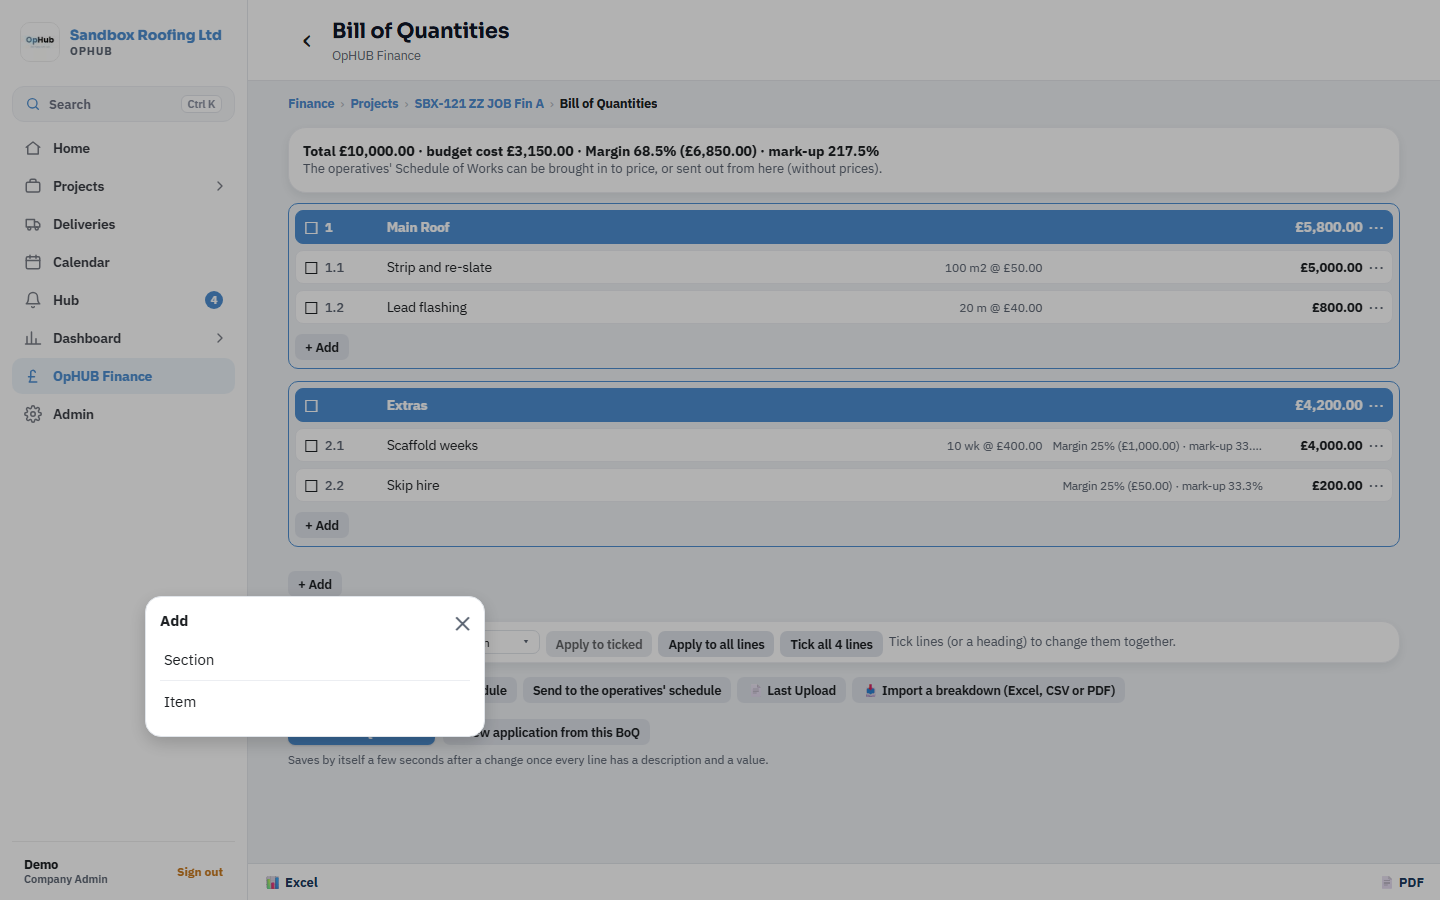
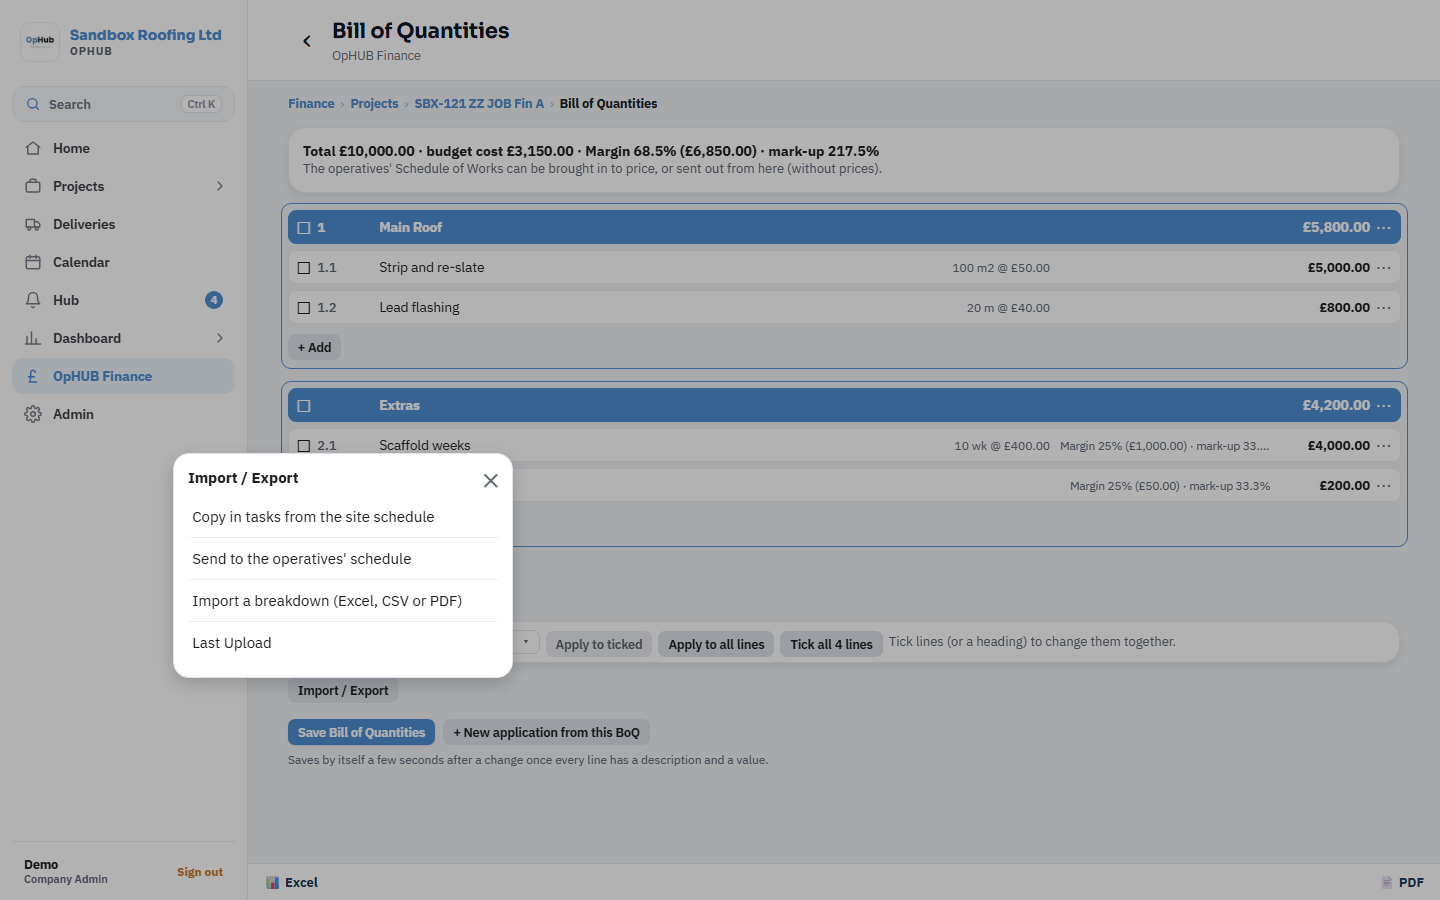
Bill of Quantities: one Import / Export button with the options under it; page edges line up.
Claude-Session: https://claude.ai/code/session_012KhfNvBEbifMJmPdX7yZfp

diff --git a/app-native/src/app/(app)/fin/job/[id]/boq.tsx b/app-native/src/app/(app)/fin/job/[id]/boq.tsx
@@ -162,6 +162,66 @@ function Editor({ id, initial, me }: { id: string; initial: Row[]; me: Profile }
     if (!ok) toast('Could not make the file — try again.');
   };
 
+  const bqCopy = async () => {
+          const [secs, tasks] = await Promise.all([
+            fdb.from('schedule_sections').select('id,name,contract_item_id').eq('site_id', id).order('position', { ascending: true, nullsFirst: false }).order('created_at'),
+            fdb.from('schedule_tasks').select('id,name,section_id,contract_item_id').eq('site_id', id).order('position', { ascending: true, nullsFirst: false }).order('created_at'),
+          ]);
+          const have = new Set(rows.map((r) => r._task_id).filter(Boolean));
+          const free = ((tasks.data as Row[] | null) ?? []).filter((t) => !t.contract_item_id && !have.has(t.id));
+          if (!free.length) { toast('Everything on the site schedule is already in here.'); return; }
+          const addRows: Row[] = free.filter((t) => !t.section_id).map((t) => ({ ...blank('item'), description: t.name, _task_id: t.id }));
+          ((secs.data as Row[] | null) ?? []).forEach((s) => {
+            const ts = free.filter((t) => t.section_id === s.id); if (!ts.length) return;
+            addRows.push({ ...blank('section'), description: s.name, _sec_id: s.contract_item_id ? null : s.id }, ...ts.map((t) => ({ ...blank('item'), description: t.name, _task_id: t.id })));
+          });
+          setRows([...rows, ...addRows]);
+          toast(`${free.length} task${free.length === 1 ? '' : 's'} copied in — add a price to each`);
+        };
+  const bqSend = async () => {
+          if (rows.some((r) => !r.id)) { toast('Save the schedule first.'); return; }
+          const [secs, tasks] = await Promise.all([fdb.from('schedule_sections').select('id,contract_item_id,name,position').eq('site_id', id), fdb.from('schedule_tasks').select('id,contract_item_id,name,section_id,position').eq('site_id', id)]);
+          const sl = (secs.data as Row[] | null) ?? [], tl = (tasks.data as Row[] | null) ?? [];
+          const secBy: Record<string, Row> = {}, taskBy: Record<string, Row> = {};
+          sl.forEach((s) => { if (s.contract_item_id) secBy[s.contract_item_id] = s; }); tl.forEach((t) => { if (t.contract_item_id) taskBy[t.contract_item_id] = t; });
+          let secPos = sl.reduce((m, s) => Math.max(m, Number(s.position || 0)), 0) + 1, taskPos = tl.reduce((m, t) => Math.max(m, Number(t.position || 0)), 0) + 1;
+          let cur: string | null = null, head = '', added = 0, updated = 0;
+          const nm = (i: Row) => `${i.ref ? `${i.ref} ` : ''}${String(i.description || '').trim()}`;
+          for (const i of rows) {
+            if (i.kind === 'section' || i.kind === 'subsection') {
+              const name = i.kind === 'section' ? nm(i) : `${head ? `${head} — ` : ''}${nm(i)}`; if (i.kind === 'section') head = nm(i);
+              const ex = secBy[i.id];
+              if (ex) { if (ex.name !== name) await fdb.from('schedule_sections').update({ name } as never).eq('id', ex.id); cur = ex.id; }
+              else { const r = await fdb.from('schedule_sections').insert({ site_id: id, name, position: secPos++, created_by: me.id, contract_item_id: i.id } as never).select('id').single(); cur = r.data ? (r.data as Row).id : null; }
+              continue;
+            }
+            const name = nm(i) || 'Item', ex = taskBy[i.id];
+            if (ex) { const p: Row = {}; if (ex.name !== name) p.name = name; if ((ex.section_id || null) !== (cur || null)) p.section_id = cur; if (Object.keys(p).length) { await fdb.from('schedule_tasks').update(p as never).eq('id', ex.id); updated++; } }
+            else if (!(await fdb.from('schedule_tasks').insert({ site_id: id, name, status: 'todo', position: taskPos++, contract_item_id: i.id, ...(cur ? { section_id: cur } : {}) } as never)).error) added++;
+          }
+          toast(added || updated ? `Operatives' schedule: ${added} task${added === 1 ? '' : 's'} added${updated ? `, ${updated} updated` : ''}` : 'The operatives’ schedule is already up to date');
+        };
+  const bqImport = async () => {
+          const r = await DocumentPicker.getDocumentAsync({ type: '*/*', copyToCacheDirectory: true }); if (r.canceled || !r.assets[0]) return;
+          const a = r.assets[0];
+          if (/\.xls$/i.test(a.name || '')) { toast('Save it as .xlsx or .csv first — old .xls files can’t be read.'); return; }
+          setImporting(true);
+          try {
+            const bytes = new Uint8Array(await (await fetch(a.uri)).arrayBuffer());
+            const kept = await supabase.storage.from('finance-docs').upload(`${me.org_id}/${id}/contract/${Date.now()}-${(a.name || 'boq').replace(/[^a-z0-9.-]+/gi, '_').slice(-80)}`, bytes, { contentType: a.mimeType || 'application/octet-stream' });
+            if (!kept.error) { await fdb.from('job_finance').update({ contract_file_path: kept.data.path, contract_file_name: a.name || 'BoQ' } as never).eq('site_id', id); setLastUp({ path: kept.data.path, name: a.name || 'BoQ' }); }
+            if (/\.pdf$/i.test(a.name || '') || a.mimeType === 'application/pdf') {
+              const pages = await pdfPageTexts(bytes, 40);
+              setImp({ sheets: [], sheet: '', lines: importPdfLines((pages ?? []).join('\n').split('\n')) });
+            } else {
+              const sheets = /\.csv$/i.test(a.name || '') ? [{ name: 'CSV', rows: csvRows(new TextDecoder().decode(bytes)) }] : await readXlsx(bytes);
+              const best = bestSheet(sheets); if (!best) { toast('Nothing found in that file.'); return; }
+              const g = guessColumns(best.rows);
+              setImp({ sheets, sheet: best.name, lines: importRows(best.rows, g.header, g.cols) });
+            }
+          } catch { toast('Could not read that file.'); } finally { setImporting(false); }
+        };
+  const bqLast = async () => { const u = await openDocLink('finance-docs', lastUp.path); if (u) viewDoc(u, lastUp.name); else toast('Could not open the file.'); };
   return (
     <View style={{ flex: 1 }}>
     <ScrollView style={{ flex: 1 }} contentContainerStyle={page(1100)} keyboardShouldPersistTaps="handled">
@@ -175,7 +235,7 @@ function Editor({ id, initial, me }: { id: string; initial: Row[]; me: Profile }
 
       {/* Each section sits in its own border (Andy, 1 Nov 2026); lines before any section don't. */}
       {rows.reduce<number[][]>((gs, r, i) => { if (r.kind === 'section' || !gs.length) gs.push([i]); else gs[gs.length - 1].push(i); return gs; }, []).map((g) => (
-      <View key={rows[g[0]]._k} style={rows[g[0]].kind === 'section' ? { borderWidth: 1.5, borderColor: t.brand1, borderRadius: 10, padding: 6, paddingBottom: 0, marginBottom: 12 } : undefined}>
+      <View key={rows[g[0]]._k} style={rows[g[0]].kind === 'section' ? { borderWidth: 1.5, borderColor: t.brand1, borderRadius: 10, padding: 6, paddingBottom: 0, marginBottom: 12, marginHorizontal: -7.5 } : undefined}>
       {g.map((i) => {
         const r = rows[i];
         const head = r.kind === 'section' || r.kind === 'subsection';
@@ -272,65 +332,9 @@ function Editor({ id, initial, me }: { id: string; initial: Row[]; me: Profile }
       </Card>
 
       <View style={{ flexDirection: 'row', flexWrap: 'wrap', gap: 6, marginBottom: 12 }}>
-        <Button small kind="ghost" title="Copy in tasks from the site schedule" onPress={async () => {
-          const [secs, tasks] = await Promise.all([
-            fdb.from('schedule_sections').select('id,name,contract_item_id').eq('site_id', id).order('position', { ascending: true, nullsFirst: false }).order('created_at'),
-            fdb.from('schedule_tasks').select('id,name,section_id,contract_item_id').eq('site_id', id).order('position', { ascending: true, nullsFirst: false }).order('created_at'),
-          ]);
-          const have = new Set(rows.map((r) => r._task_id).filter(Boolean));
-          const free = ((tasks.data as Row[] | null) ?? []).filter((t) => !t.contract_item_id && !have.has(t.id));
-          if (!free.length) { toast('Everything on the site schedule is already in here.'); return; }
-          const addRows: Row[] = free.filter((t) => !t.section_id).map((t) => ({ ...blank('item'), description: t.name, _task_id: t.id }));
-          ((secs.data as Row[] | null) ?? []).forEach((s) => {
-            const ts = free.filter((t) => t.section_id === s.id); if (!ts.length) return;
-            addRows.push({ ...blank('section'), description: s.name, _sec_id: s.contract_item_id ? null : s.id }, ...ts.map((t) => ({ ...blank('item'), description: t.name, _task_id: t.id })));
-          });
-          setRows([...rows, ...addRows]);
-          toast(`${free.length} task${free.length === 1 ? '' : 's'} copied in — add a price to each`);
-        }} />
-        <Button small kind="ghost" title="Send to the operatives' schedule" onPress={async () => {
-          if (rows.some((r) => !r.id)) { toast('Save the schedule first.'); return; }
-          const [secs, tasks] = await Promise.all([fdb.from('schedule_sections').select('id,contract_item_id,name,position').eq('site_id', id), fdb.from('schedule_tasks').select('id,contract_item_id,name,section_id,position').eq('site_id', id)]);
-          const sl = (secs.data as Row[] | null) ?? [], tl = (tasks.data as Row[] | null) ?? [];
-          const secBy: Record<string, Row> = {}, taskBy: Record<string, Row> = {};
-          sl.forEach((s) => { if (s.contract_item_id) secBy[s.contract_item_id] = s; }); tl.forEach((t) => { if (t.contract_item_id) taskBy[t.contract_item_id] = t; });
-          let secPos = sl.reduce((m, s) => Math.max(m, Number(s.position || 0)), 0) + 1, taskPos = tl.reduce((m, t) => Math.max(m, Number(t.position || 0)), 0) + 1;
-          let cur: string | null = null, head = '', added = 0, updated = 0;
-          const nm = (i: Row) => `${i.ref ? `${i.ref} ` : ''}${String(i.description || '').trim()}`;
-          for (const i of rows) {
-            if (i.kind === 'section' || i.kind === 'subsection') {
-              const name = i.kind === 'section' ? nm(i) : `${head ? `${head} — ` : ''}${nm(i)}`; if (i.kind === 'section') head = nm(i);
-              const ex = secBy[i.id];
-              if (ex) { if (ex.name !== name) await fdb.from('schedule_sections').update({ name } as never).eq('id', ex.id); cur = ex.id; }
-              else { const r = await fdb.from('schedule_sections').insert({ site_id: id, name, position: secPos++, created_by: me.id, contract_item_id: i.id } as never).select('id').single(); cur = r.data ? (r.data as Row).id : null; }
-              continue;
-            }
-            const name = nm(i) || 'Item', ex = taskBy[i.id];
-            if (ex) { const p: Row = {}; if (ex.name !== name) p.name = name; if ((ex.section_id || null) !== (cur || null)) p.section_id = cur; if (Object.keys(p).length) { await fdb.from('schedule_tasks').update(p as never).eq('id', ex.id); updated++; } }
-            else if (!(await fdb.from('schedule_tasks').insert({ site_id: id, name, status: 'todo', position: taskPos++, contract_item_id: i.id, ...(cur ? { section_id: cur } : {}) } as never)).error) added++;
-          }
-          toast(added || updated ? `Operatives' schedule: ${added} task${added === 1 ? '' : 's'} added${updated ? `, ${updated} updated` : ''}` : 'The operatives’ schedule is already up to date');
-        }} />
-        {!!lastUp?.path && <Button small kind="ghost" title="📄 Last Upload" onPress={async () => { const u = await openDocLink('finance-docs', lastUp.path); if (u) viewDoc(u, lastUp.name); else toast('Could not open the file.'); }} />}
-        <Button small kind="ghost" busy={importing} title="📥 Import a breakdown (Excel, CSV or PDF)" onPress={async () => {
-          const r = await DocumentPicker.getDocumentAsync({ type: '*/*', copyToCacheDirectory: true }); if (r.canceled || !r.assets[0]) return;
-          const a = r.assets[0];
-          if (/\.xls$/i.test(a.name || '')) { toast('Save it as .xlsx or .csv first — old .xls files can’t be read.'); return; }
-          setImporting(true);
-          try {
-            const bytes = new Uint8Array(await (await fetch(a.uri)).arrayBuffer());
-            const kept = await supabase.storage.from('finance-docs').upload(`${me.org_id}/${id}/contract/${Date.now()}-${(a.name || 'boq').replace(/[^a-z0-9.-]+/gi, '_').slice(-80)}`, bytes, { contentType: a.mimeType || 'application/octet-stream' });
-            if (!kept.error) { await fdb.from('job_finance').update({ contract_file_path: kept.data.path, contract_file_name: a.name || 'BoQ' } as never).eq('site_id', id); setLastUp({ path: kept.data.path, name: a.name || 'BoQ' }); }
-            if (/\.pdf$/i.test(a.name || '') || a.mimeType === 'application/pdf') {
-              const pages = await pdfPageTexts(bytes, 40);
-              setImp({ sheets: [], sheet: '', lines: importPdfLines((pages ?? []).join('\n').split('\n')) });
-            } else {
-              const sheets = /\.csv$/i.test(a.name || '') ? [{ name: 'CSV', rows: csvRows(new TextDecoder().decode(bytes)) }] : await readXlsx(bytes);
-              const best = bestSheet(sheets); if (!best) { toast('Nothing found in that file.'); return; }
-              const g = guessColumns(best.rows);
-              setImp({ sheets, sheet: best.name, lines: importRows(best.rows, g.header, g.cols) });
-            }
-          } catch { toast('Could not read that file.'); } finally { setImporting(false); }
+        <Button small kind="ghost" busy={importing} title="Import / Export" onPress={async () => {
+          const k = await chooseAction('Import / Export', [{ key: 'copy', label: 'Copy in tasks from the site schedule' }, { key: 'send', label: "Send to the operatives' schedule" }, { key: 'imp', label: 'Import a breakdown (Excel, CSV or PDF)' }, ...(lastUp?.path ? [{ key: 'last', label: 'Last Upload' }] : [])]);
+          if (k === 'copy') await bqCopy(); else if (k === 'send') await bqSend(); else if (k === 'imp') await bqImport(); else if (k === 'last') await bqLast();
         }} />
       </View>
       <View style={{ flexDirection: 'row', gap: 8, flexWrap: 'wrap', alignItems: 'center' }}>

diff --git a/tools/test-harness/jobtest-parts/bq3.js b/tools/test-harness/jobtest-parts/bq3.js
@@ -1,13 +1,15 @@
-// The bottom + Add offers Section and Item. Nothing saved: closed without choosing.
+// Bill of Quantities: Import / Export menu and alignment. Menu closed without choosing.
 module.exports = async ({as, step}) => {
   const a = await as('admin');
   const [J] = await a.get('sites?select=id&name=like.ZZ%20JOB%20Fin*&limit=1');
   await a.page.setViewportSize({width: 1440, height: 900});
-  await step('Bottom + Add', async () => {
+  await step('Left edges line up; Import / Export offers the options', async () => {
     await a.go(`/fin/job/${J.id}/boq`, 7000); await a.page.getByText(/^not now$/i).first().click({timeout: 800}).catch(() => {}); await a.page.waitForTimeout(1500); await a.shot('page');
-    const old = await a.page.getByText(/^\+ (Item|Section)$/).locator('visible=true').count();
-    await a.page.getByText(/^\+ Add$/).locator('visible=true').last().click({timeout: 6000}); await a.page.waitForTimeout(500); await a.shot('menu');
-    const sec = await a.page.getByText(/^Section$/).locator('visible=true').count(), item = await a.page.getByText(/^Item$/).locator('visible=true').count();
-    return {ok: old === 0 && sec > 0 && item > 0, note: `old ${old}, section ${sec}, item ${item}`};
+    const x = async (re) => Math.round((await a.page.getByText(re).locator('visible=true').last().locator('..').boundingBox()).x);
+    const inner = await x(/^\+ Add$/), save = await x(/^Save Bill of Quantities$/), io = await x(/^Import \/ Export$/);
+    const first = await a.page.getByText(/^\+ Add$/).locator('visible=true').first().locator('..').boundingBox();
+    await a.page.getByText(/^Import \/ Export$/).locator('visible=true').first().click({timeout: 6000}); await a.page.waitForTimeout(500); await a.shot('menu');
+    const t = await a.text();
+    return {ok: /Copy in tasks/.test(t) && /Send to the operatives/.test(t) && /Import a breakdown/.test(t) && Math.abs(first.x - save) <= 1 && Math.abs(io - save) <= 1, note: `in border ${Math.round(first.x)}, add ${inner}, save ${save}, import ${io}`};
   });
 };
